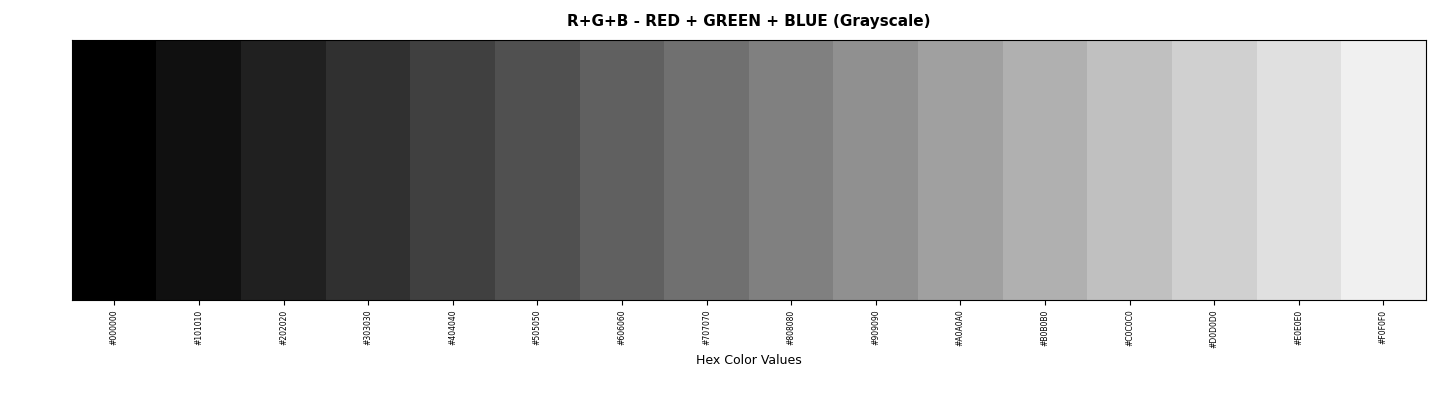
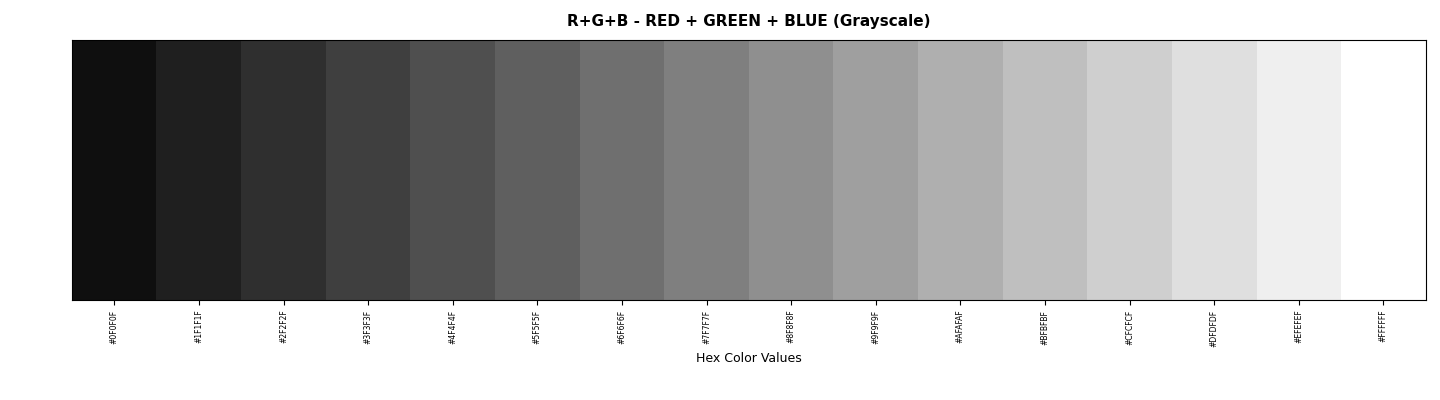
Update hues post again

diff --git a/_posts/2025-11-11-colors.md b/_posts/2025-11-11-colors.md
@@ -15,7 +15,7 @@ And here are some colors. Earlier this spring, I went to Rainbow Mountain, aka *
 
 I've been wanting to write a bit about the colors since then, but it's been incredibly busy for me this year between work, workouts (hmm, did I mention I lost over 25 lbs this year?), and many other stuff. Before you know it, it's not spring any longer - now we're almost leaving autumn with winter lurking around the corner. 2025 is almost a goner!
 
-Fast forward to today, which is Remembrance Day holiday in BC. After finishing a 10K run at the lake park nearby this afternoon, I feel it's high time that I started writing something down as a random topic. Let's dub it Autumn Hues before it's too late!
+Fast forward to today, which is Remembrance Day holiday in BC. After finishing up a 10K run at the lake park nearby this afternoon, I feel it's high time that I rambled a bit on it. Let's dub it Autumn Hues before it's too late!
 
 Here's another picture I took in BC recently, more fitting to the theme:
 ![autumn_hues](../assets/images/20251111/autumn_hues.jpeg)
@@ -28,18 +28,18 @@ OK, then, what is light?
 
 Well, as we all know, light is just a subset of electromagnetic radiation that can be perceived by the human eyes - although broadly speaking, Ultraviolet(UV) and Infrared (IR) should be considered lights as well.
 
-Here's a demo of the perceivable (and invisible) color spectrum of as per wavelengths.
+Here's a demo of the perceivable (and invisible) color spectrum as per wavelengths.
 
 ![wave_spectrum](../assets/images/20251111/wave_spectrum.jpeg)
 *Source: [lenalighting.com](https://lenalighting.com/company/knowledge-base/1795-the-spectrum-of-visible-light-the-wavelength-of-the-light){:target="_blank"}*
 
-Sir Newton The Great strikes again, and was credited for initial discovery of this. Back a few centuries ago, in 1665, Newton used a prism to show that sunlight, i.e., clear white light, is refracted (bent) into its component colors, namely red, orange, yellow, green, blue, indigo, and violet (ROYGBIV). He also demonstrated that these seven visible colors can be recombined into a beam of white light.
+Sir Newton The Great strikes again, as he was credited for the initial discovery of this. Back a few centuries ago, in 1665, Newton used a prism to show that sunlight, i.e., clear white light, is refracted (bent) into its component colors, namely red, orange, yellow, green, blue, indigo, and violet (ROYGBIV). He also demonstrated that these seven visible colors can be recombined into a beam of white light.
 
 > It still remains for us to exhibit the system of the world from these same principles.
 
-While he famously said these powerful words for explaining the mechanics of the solar systems via the universal laws of motion and gravitation. The laws of lights and colors should also be part of this system of the world.
+While he famously said these powerful words before explaining the mechanics of the solar systems via the universal laws of motion and gravitation. The laws of lights and colors should also be part of this system of the world.
 
-Let's say how that has been computerized 360 years later.
+Let's see how that has been computerized 360 years later.
 
 ## Digitalized Colors
 
@@ -48,18 +48,19 @@ Just when I thought I ran out full-stack developer jokes, here's another one:
 ![full_stack](../assets/images/20251111/full_stack.jpeg)
 *Credit: [reddit](https://www.reddit.com/r/ProgrammerHumor/comments/ulmb5b/more_work/){:target="_blank"}*
 
-For the past ~8 years, I've been doing my fair share of jack of all trades at my engineering roles in Canada. I mostly work on backend and infrastructure, but occasionally I may need to touch client or frontend or other ad hoc stuff. Whenever I'd have a UI/UX task, I felt compelled to clarify that I just am not very good at manipulating pixels. I kinda know what they are, but it's aesthetically hard for me to be good at it (not everyone is Steve Jobs I guess!). Also just like Zuck, I am a big fan of pure / solid colors in daily life too (although it's reported he's red-green colorblind). So it's fair to say picking colors ain't really my forte!
+For the past ~8 years, I've been doing my fair share of jack of all trades at my engineering roles in Canada. While I mostly work on backend and infrastructure, occasionally I may need to touch client-side or frontend or other ad hoc stuff. Whenever I'd have a UI/UX task, I felt compelled to clarify that I just am not very good at manipulating pixels. I kinda know what they are, but it's aesthetically difficult for me to be good at it (not everyone is Steve Jobs I guess!). Also just like a certain famous billionaire, I too am a big fan of pure / solid colors in daily life. So it's fair to say picking colors ain't really my forte!
 
 Okay. Enough with the disclaimers. Let's dive into it.
 
-For most computer color models, we just use RGB (red, green, and blue), with a 8-bit representation for each color. For example, full red would be (255, 0, 0) if we use R, G, B as the 3D dimensional space. Or oftentimes, it's being referenced to its equivalent hex form: #FF0000 (you can also visualize this in a [hex color visualizer](https://lawlesscreation.github.io/hex-color-visualiser/){:target="_blank"})
+For most computer color models, we just use RGB (red, green, and blue), with a 8-bit representation for each color. For example, full red would be (255, 0, 0) if we use R, G, B as the underlying 3D dimensional space. Or oftentimes, it's being referenced as its equivalent hex form: #FF0000 (you can also visualize this in a [hex color visualizer](https://lawlesscreation.github.io/hex-color-visualiser/){:target="_blank"})
 
-RGBs are considered the primary colors of light, because if you mix them, you can get other colors. But they cannot be the results of mixing other colors.
+RGBs are considered the primary colors of light, because if you mix them, you can get other colors. But they cannot be derived from mixing other colors.
 
-Let's visualize it using Python. We'll start by aiming for Red, i.e. #FF0000, by incrementing only the red coordinates by 16 from #000000 (which is black), so we'd have 256 / 16 = 16 derived colors in this palette.
+Let's visualize some palettes using Python. We'll start by aiming for Red, i.e. #FF0000, by incrementing only the red coordinates by 16 from left to right.
 
 ```python
-hex_values = list(range(0, 256, 16))  # 0-based
+# This creates: [15, 31, 47, 63, 79, 95, 111, 127, 143, 159, 175, 191, 207, 223, 239, 255]
+hex_values = list(range(255, 0, -16))[::-1]  # Since it's 0-based, we deduct steps of 16 from 255
 print(f"Hex values: {[hex(h) for h in hex_values]}")
 
 # Create RED palette: varying red from 0x00 to 0xFF, green=0, blue=0
@@ -89,7 +90,7 @@ Green + Blue => Cyan:
 Red + Blue => Magenta:
 ![red_blue](../assets/images/20251111/r_b.png)
 
-And if we mix all three, i.e. Red + Green + Blue, we should get white if we add more (#FFFFFF would be total white, which isn't shown here):
+And if we mix all three, i.e. Red + Green + Blue, we should get white if we add more:
 
 ![red_green_blue](../assets/images/20251111/r_g_b.png)
 
@@ -97,19 +98,19 @@ Yup, it's just simple and intuitive as that. Sir Newton was absolutely right!
 
 ## Additive Mixing vs Subtractive Mixing
 
-In the aforementioned RGB pallette creation processes, we started with #000000, as no color was added so it was total black to begin with. But as we light up (~~let there be light!~~) gradually, after adding all colors, we get a #FFFFFF at the end, which is fully white. This'd be considered an additive mixing model that works for light sources, such as monitors, that emit lights.
+In the aforementioned RGB pallette creation processes, we can start with #000000, as no color was added so it was pitch black to begin with. But as we light up (~~let there be light!~~) gradually, after adding all colors, we'd get a #FFFFFF at the end, which is fully white. This'd be what we call an additive mixing model, which works for light sources, such as monitors, that emit lights.
 
 For the RGB 3D space, represented by the 8-bit hex system, we'd have a total permutation of:
 
 > 256 x 256 x 256 = 16,777,216
 
-i.e. total 16+ million possible colors in the "true color" palette, which is more than enough colors that bare human eyes can perceive. Some higher-end fancier monitors may offer 10-bit systems that can offer much more colors.
+i.e. total 16+ million possible colors in the complete color palette, which is more than enough colors that bare human eyes can perceive. Some higher-end fancier monitors may offer 10-bit systems that can offer much more colors.
 
-However, for objects that don't emit lights, the colors are created by subtracting or absorbing certain wavelengths of light from white light. That is, if an object is "seen" as blue, that's because it absorbed all other wavelengths of light but blue's, so only blue light is being reflected and "seen". Examples of using this mechanism would be pigments and inks. If we start mixing different colored pigments, different wavelengths of light will get absorbed / reflected, and thus different colors would be seen. We call this mixing strategy subtractive color mixing, as the more colors you add, the darker it gets. Picture of yourself in front of a piece of white paper, and if you start by adding all the pigments, it'd turn black at the end.
+However, for objects that don't emit lights, the colors are *created* by subtracting or absorbing certain wavelengths of light from white light. That is, if an object is *seen* as blue, that's because it absorbed all other wavelengths of light but blue's, so only blue light is being reflected and *seen*. For example, this mechanism can be used by pigments and inks. If we start mixing different colored pigments, different wavelengths of light will get absorbed / reflected, and thus different colors would be seen. We call this mixing strategy subtractive color mixing, as the more colors you add, the darker it gets. Picture of yourself in front of a piece of white paper, and if you start gradually adding all the pigments, it'd turn black at the end.
 
-So in a way, subtractive color mixing is the opposite process of additive color mixing. This is being widely used by artists, publishers, and other paper media etc. But instead of RGB, RYB (Red, Yellow, Blue) or other variations are used as primary colors.
+So in a way, subtractive color mixing is the opposite of additive color mixing. This is being widely used by artists, publishers, and other paper media etc. But instead of RGB, RYB (Red, Yellow, Blue) or other variations are used as primary colors.
 
-I am unsure how to digitize this subtractive color mixing (yet). It's not gonna be as simple as just flipping the 8-bit representation. Mark it as TODO here. :)
+I am unsure how to digitize this subtractive color mixing process (yet). It's clearly not gonna be as simple as just flipping the 8-bit representation. Mark it as TODO here. :)
 
 ## Trichromacy vs Tetrachromacy
 
@@ -124,7 +125,7 @@ And the colors each sees:
 
 ![human-vs-bird-vision](../assets/images/20251111/human-vs-bird-vision.jpg)
 
-Wouldn't it be cool if we also have tetrachromacy? It'd be an artist's dream come true! I think our ancestors may also have this gene eons ago but at one point, it was lost as we started living indoors and this became less essential (for birds, this tetrachromacy capability makes them easier to highlight flowers and seeds etc). What a shame though.
+Wouldn't it be cool if we also have tetrachromacy? It'd be an artist's dream come true! I think our ancestors may also have this gene eons ago but at one point, it was lost as we started living indoors and this became less essential (for birds, this tetrachromacy capability enables them to spot flowers and seeds more easily, among other benefits). What a shame though.
 
 ## Epilog
 
@@ -132,9 +133,9 @@ I wanted to experiment more, but I'll be honest, Cursor had rate-limited me for 
 
 That's the thing. This is a new era now. And this era was divided by prior- and post- Nov 30, 2022, the day when ChatGPT was released - to think about it, that was just less than 3 years from today. I've been blogging before that, and was fortune enough to work on AI before it became so cool that everyone's talking about it. But I've been trying to make a point that I don't use any AI to write the blogs for me, due to some weird old-fashioned craftsmanship pride. And up till this post, I am pride to say I still don't (but I'll admit, it's probably a much better writer than me..).
 
-But starting last year, I think I've lost the fort on the programming front. I've become a somewhat cautious vibe coder. I'd use AI to write some short snippets by designing the prompts and plans, proof-reading, and fixing by hand if I need to for small things. It's surprisingly good, especially at writing tests (I meant, who needs tests anyways. :D).
+But starting last year, I think I've lost the fort on the programming front. I've become a somewhat cautious vibe coder. I'd use AI to help with some short snippets by designing the prompts and plans, writing down a bit scaffold code, laying down the structure, proof-reading, and fixing by hand if I need to for small things. It's surprisingly good, especially at writing tests (I meant, who needs tests anyways. :D).
 
-I was chatting with our product manager earlier this week, and we agreed that in this AI time and age, it's becoming harder to do any structured learning at all. Take me for an example, it's been really challenging for me to carve out the time and energy to finish a whole book. And the ROIs on upskilling specific areas are diminishing rapidly - who cares about the latest features of Java releases, or nitty gritty of some archaic syntax? Just ask Claude or Cursor with a prompt, get a cup of coffee and come back. You'll have your answers before you know it!
+I was chatting with our product manager earlier this week, and we resonated that in this AI time and age, it's becoming harder to do any structured learning at all just because AI assistants have become so powerful and ubiquitous. And the ROIs on upskilling specific areas are diminishing rapidly - who cares about the latest features of Java releases, or the nitty gritty of some archaic syntax? Just ask Claude or Cursor with a prompt, get a cup of coffee and come back. You'll have your answers before you know it!
 
 Also as an interesting trend, different tech roles seem to be quickly converging. Engineers are now expected to have more product sense; PMs are expected to be able to do prototypes with help from AI assistants like Cursor. But I joked that given PMs own one thing that AI can't yet, which is prioritization by aligning with humans, it's likely that product management as a career will outlast us software engineers.
 
@@ -145,6 +146,6 @@ Alright, with that, I'll end my ramblings today with my own RYB palette on my ho
 ![ryb_desktop](../assets/images/20251111/ryb_desktop.jpeg)
 
 ---
-[^fn1]: I think by its very definition, a luxury item is something that you don't necessarily need or can't easily afford to have. You can easily find cheaper alternatives if functionality is what you're aiming for. A Honda Civic is probably just as good as a Ferrari, when it comes what a car was designed to do, which is getting from A to B. But for some reasons, people are still willing to buy Ferraris (I totally would, if I could lol).
+[^fn1]: I think by its very definition, a luxury is something that you don't necessarily need or can't easily afford to have. You can easily find cheaper alternatives if functionality is what you're aiming for. A Honda Civic is probably just as good as a Ferrari, when it comes what a car was designed to do, which is getting from A to B. But for some reasons, people are still willing to buy Ferraris (I totally would, if I could lol).
 
-    As another example, I have an Apple watch and another Eco-Drive, but I also own a mechanical watch. If anything, Apple watch tells time much more accurately, and there's no need to adjust for day light savings twice a year (it also tracks health stats! I've been closing my rings if you know what that means). But I still wear my mechanical watch every now and then (kinda have to alas.. part of the maintenance process to keep the springs in good standing); it sure is heavier too but I'll be darned if it ain't a pretty thing and a great source of joy by just watching it (yea yea it tells time too). I guess that's why people dub it Emotional Value. I'm guilty as charged for being a captive of this consumerism rhetorics.
+    As another example, I have an Apple watch and another Eco-Drive, but I also own a mechanical watch. If anything, Apple watch tells time much more accurately, and there's no need to adjust for day light savings twice a year (it also tracks health stats! I've been closing my rings if you know what that means). But I still wear my mechanical watch every now and then (kinda have to alas.. part of the maintenance process to keep the springs in good standing); it sure is heavier too but I'll be darned if it ain't a pretty thing and a great source of joy by just looking at it (yea yea it tells time too!). I guess that's why people dub it Emotional Value. I'm guilty as charged for being a captive of this consumerism rhetorics.
